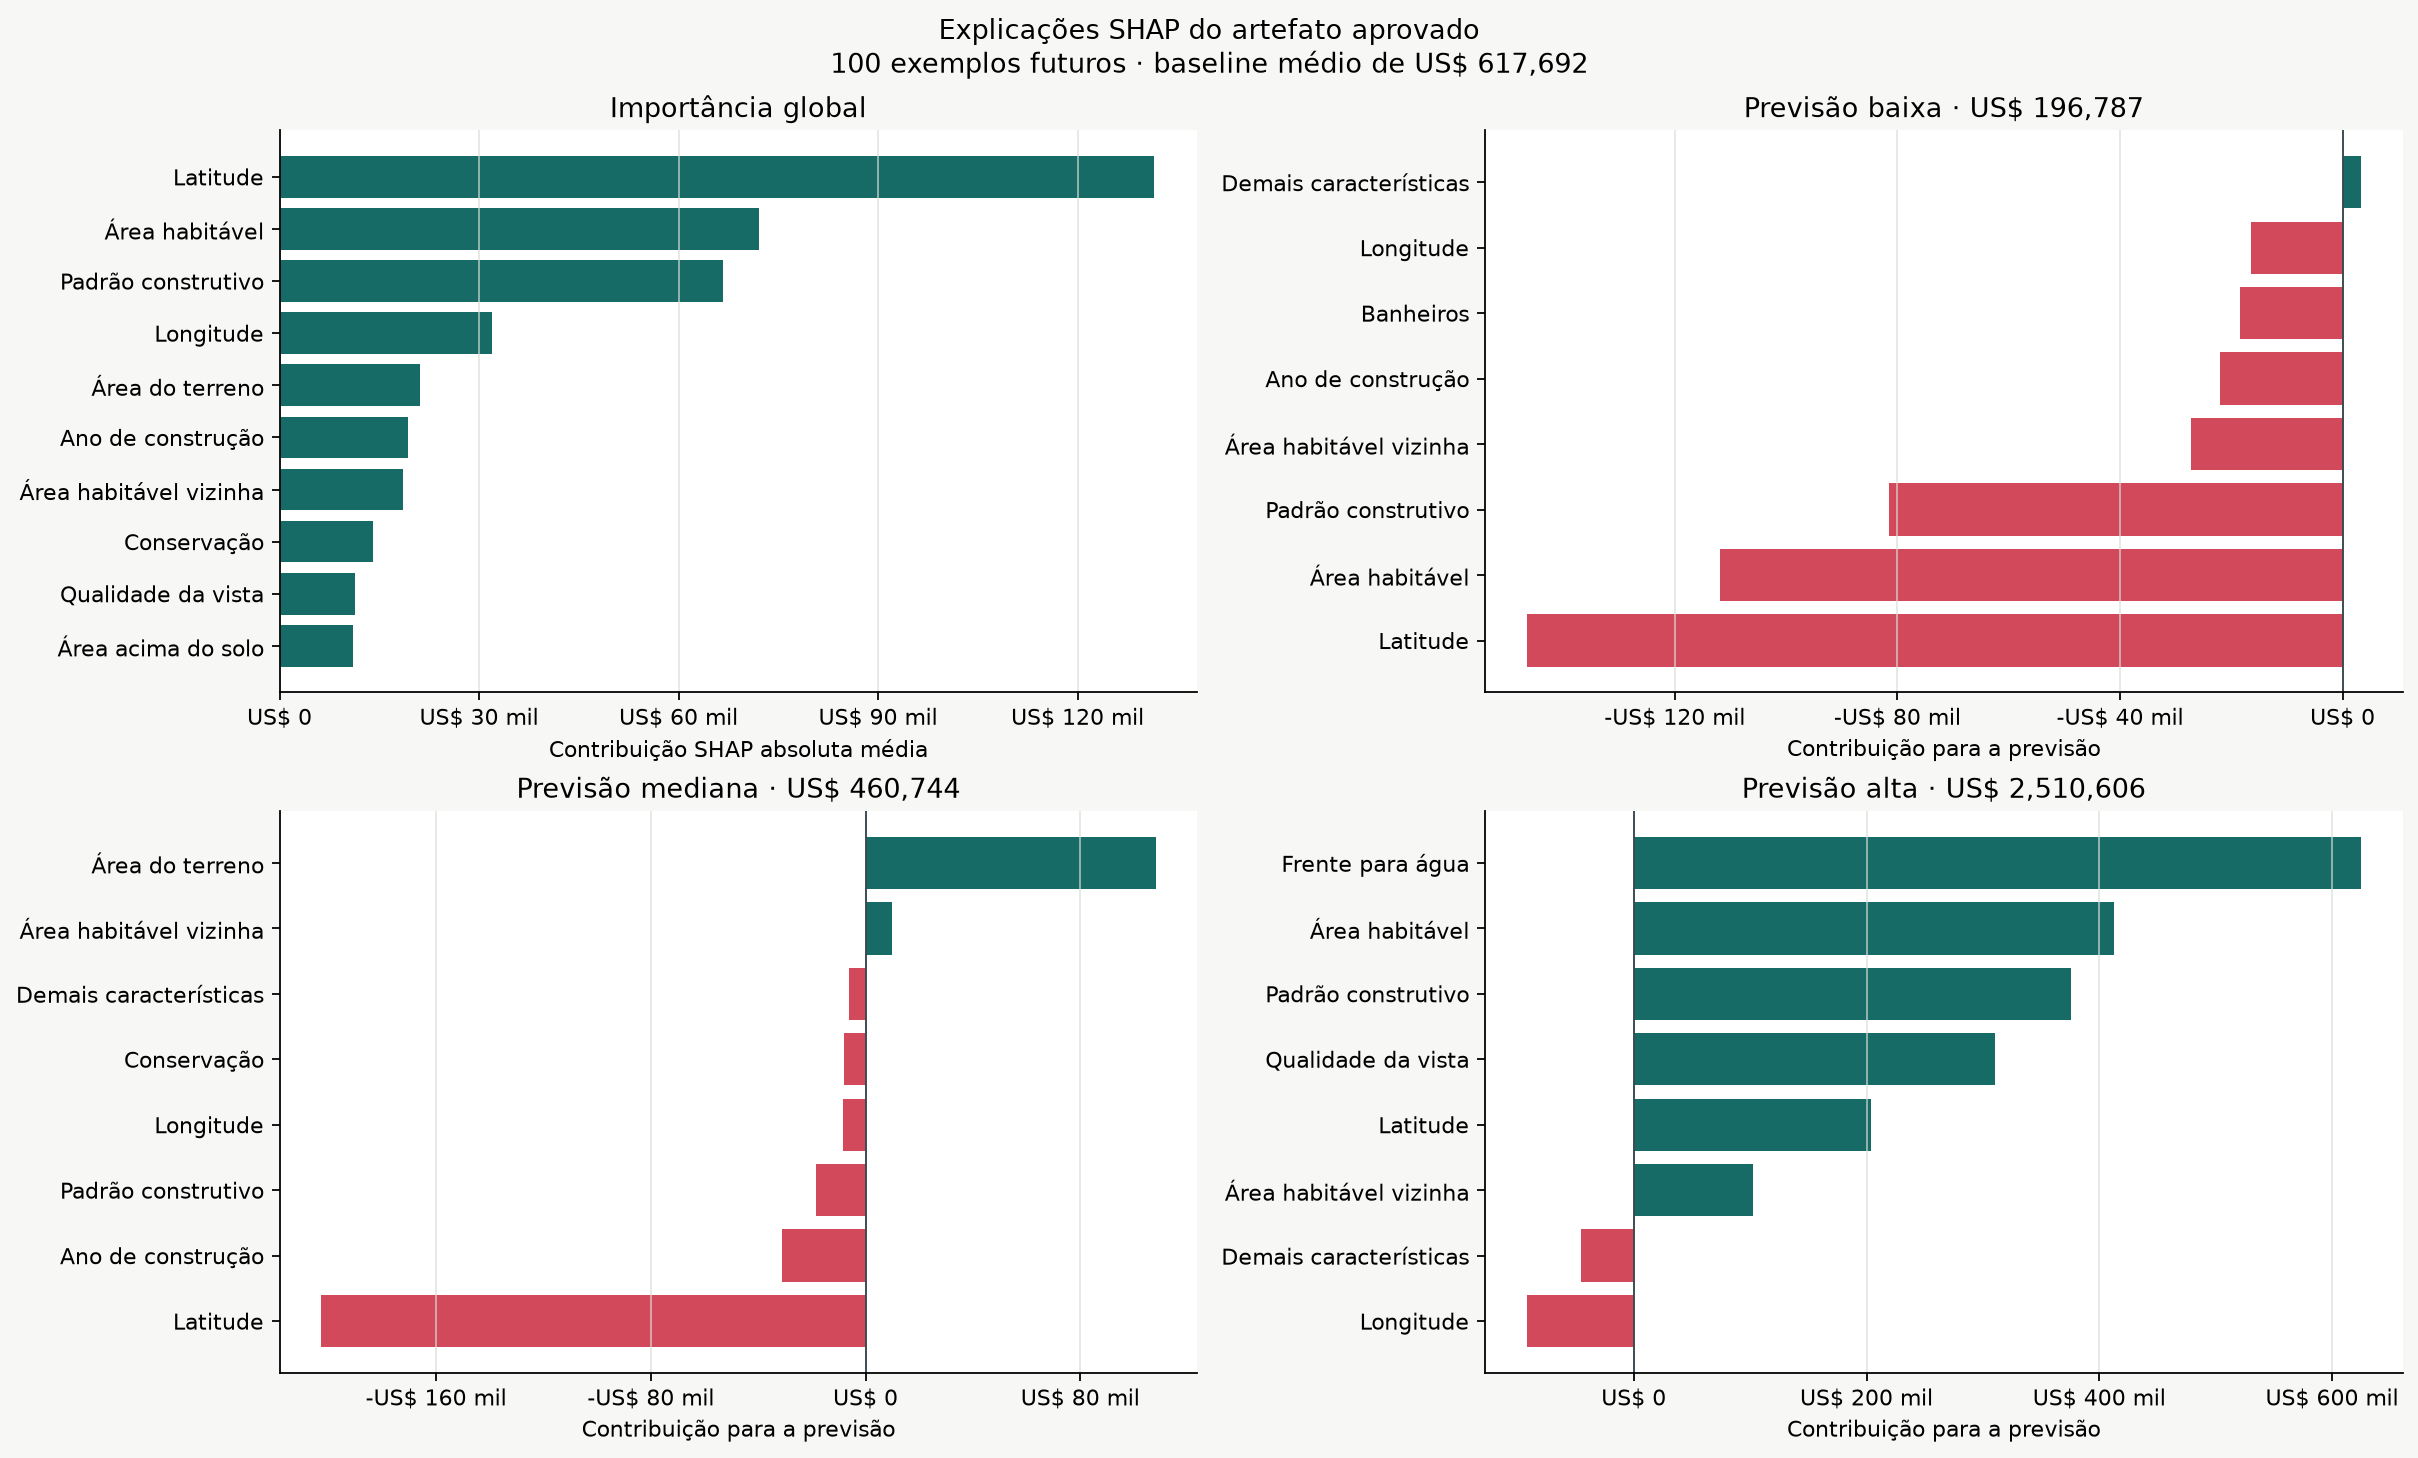
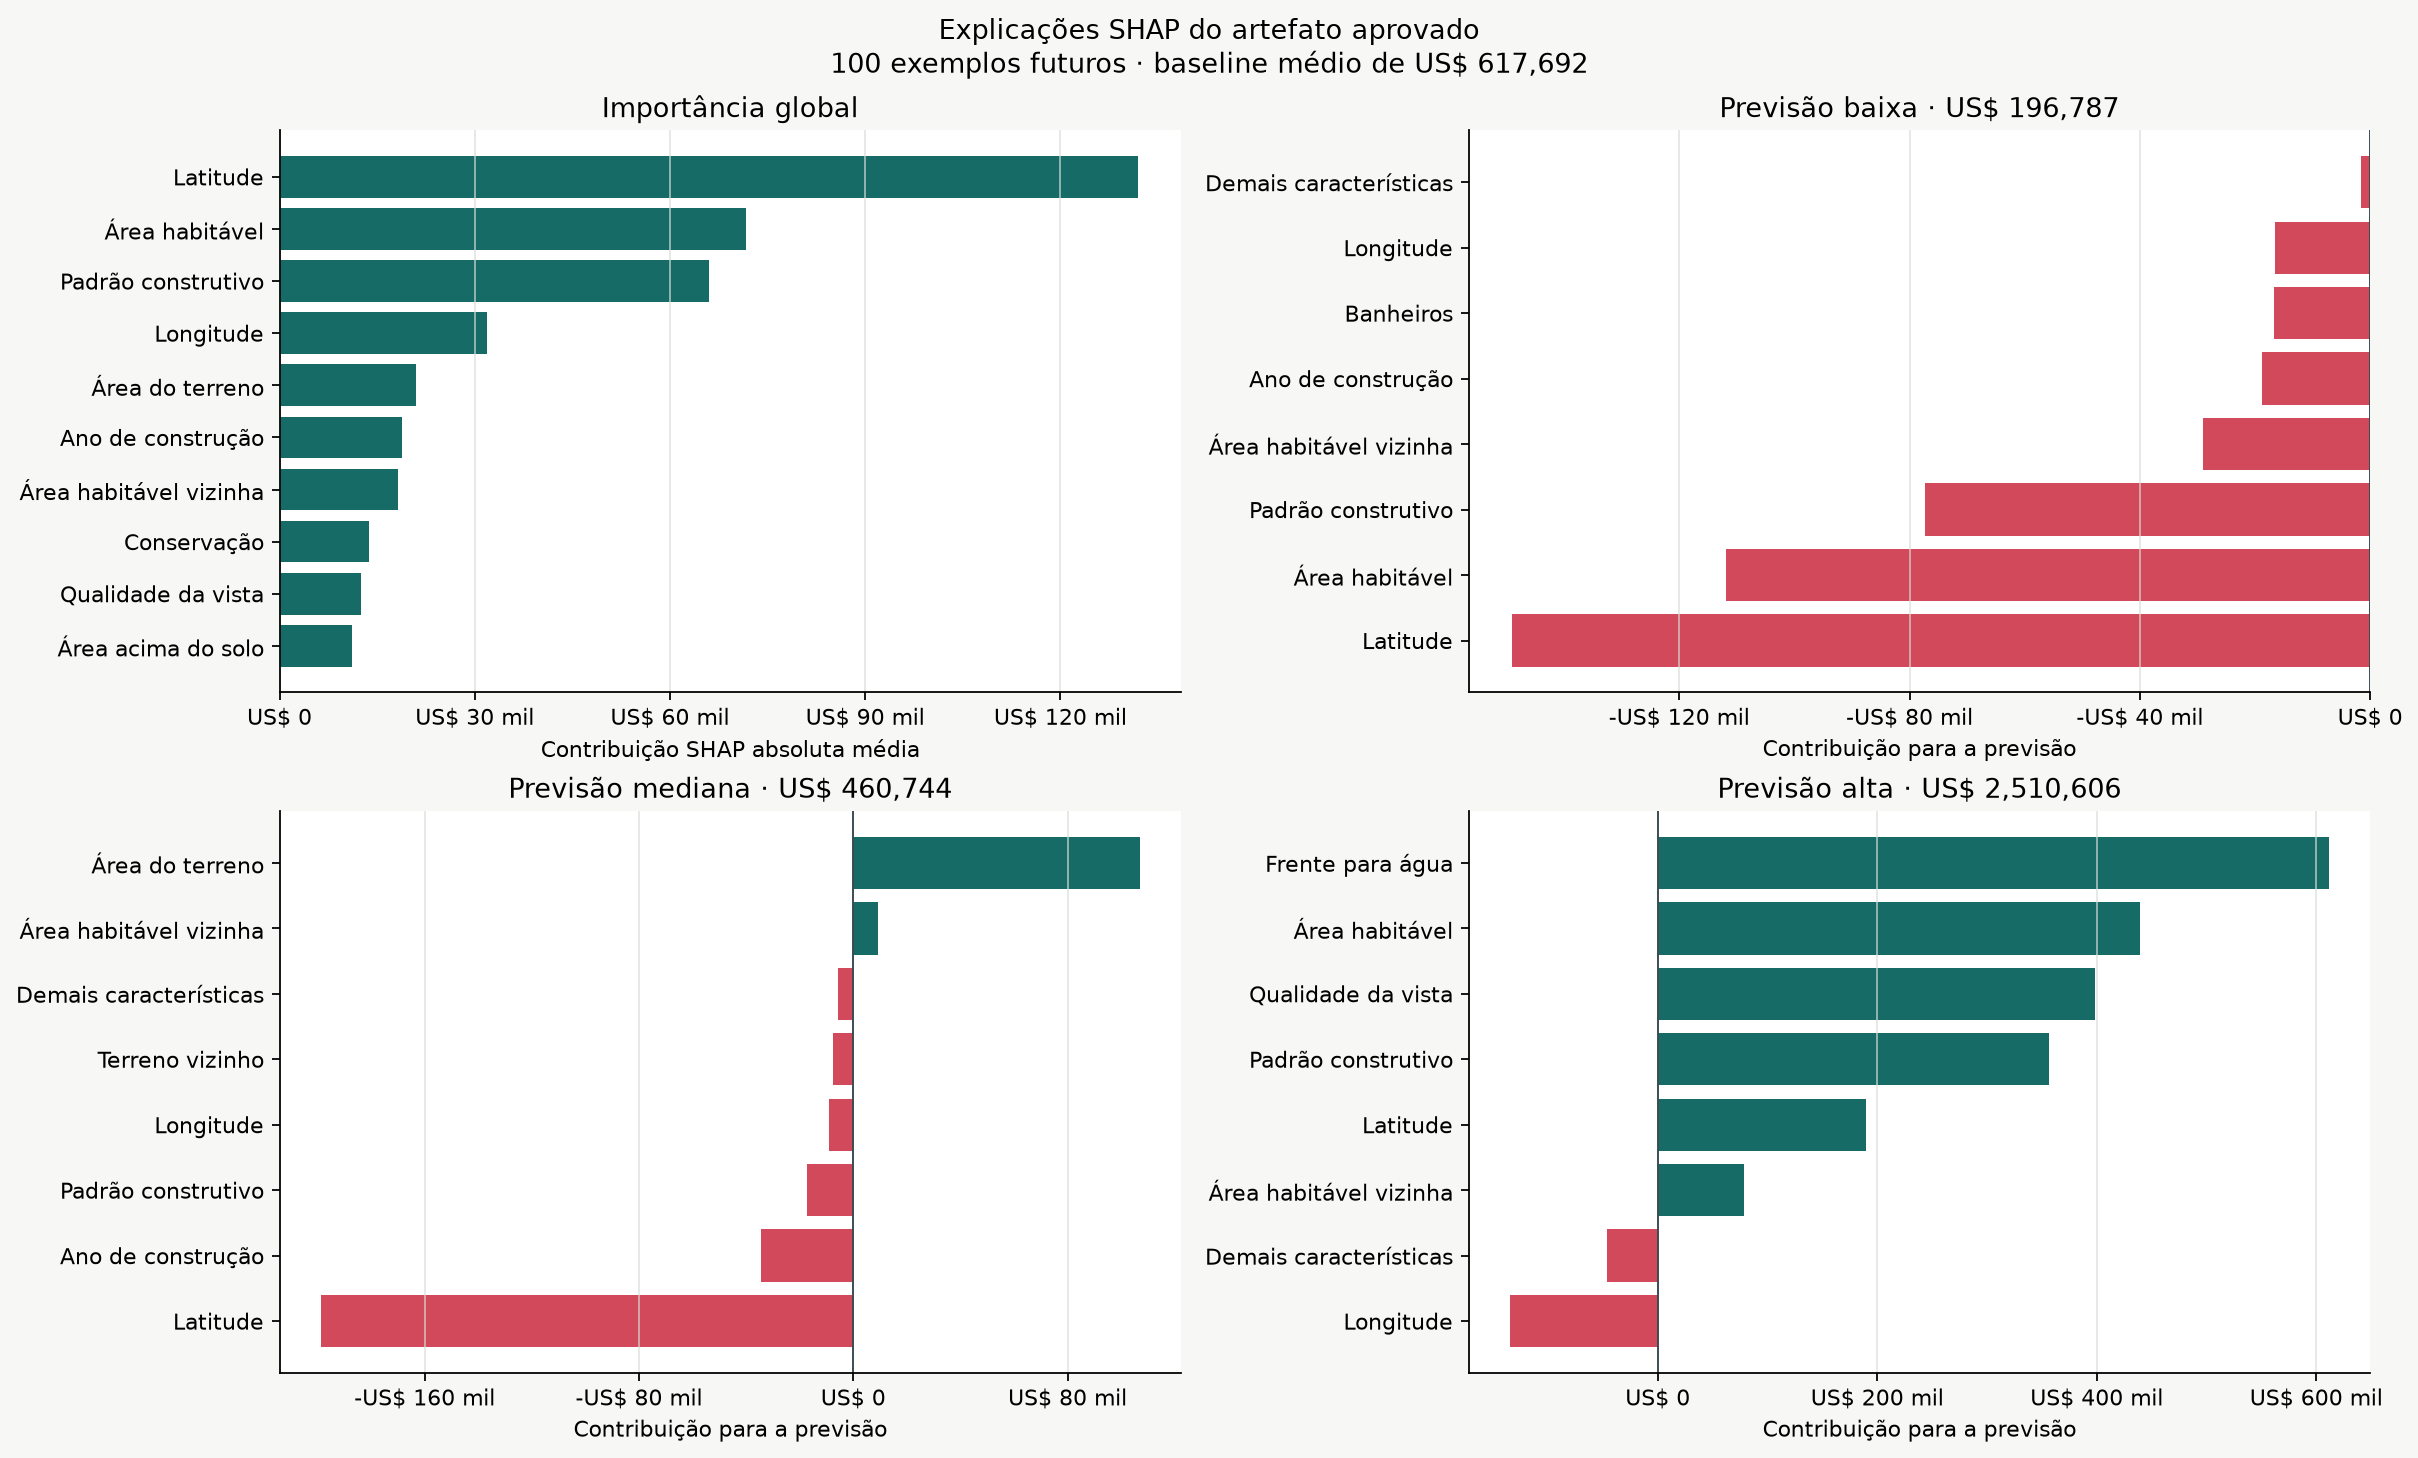
docs(explainability): refresh corrected SHAP evidence

diff --git a/reports/optional_analysis.md b/reports/optional_analysis.md
@@ -33,29 +33,32 @@ futuros possivelmente dependentes ou sujeitos a mudança de distribuição.
 
 ## Explicabilidade SHAP
 
-O `PermutationExplainer` processou as 100 linhas futuras com um baseline de 50
-linhas históricas selecionadas deterministicamente. O valor-base médio foi
-US$ 617.691,95. As maiores contribuições absolutas médias foram:
+O `PermutationExplainer` processou as 100 linhas futuras em dez ciclos de
+permutação, com um baseline de 50 linhas históricas selecionadas
+deterministicamente. O valor-base médio foi US$ 617.691,95. As maiores
+contribuições absolutas médias foram:
 
 | Característica | Contribuição absoluta média |
 | --- | ---: |
-| Latitude | US$ 131.437,72 |
-| Área habitável | US$ 72.108,70 |
-| Padrão construtivo | US$ 66.675,50 |
-| Longitude | US$ 32.020,75 |
-| Área do terreno | US$ 21.175,38 |
-| Ano de construção | US$ 19.340,56 |
+| Latitude | US$ 131.949,10 |
+| Área habitável | US$ 71.713,71 |
+| Padrão construtivo | US$ 66.026,83 |
+| Longitude | US$ 31.935,77 |
+| Área do terreno | US$ 21.042,12 |
+| Ano de construção | US$ 18.795,89 |
 
 ![Importância global e explicações locais](figures/shap_explanations.png)
 
 As explicações locais representam as previsões baixa, mediana e alta do lote:
 US$ 196.786,80, US$ 460.744,04 e US$ 2.510.606,44. A soma entre valor-base e
-contribuições reproduziu as previsões com erro máximo de `1,40e-9`.
+contribuições reproduziu as previsões com erro relativo máximo de 0,0054%, ou
+US$ 50,11, dentro da tolerância registrada de 0,01%.
 
 SHAP explica como o artefato se comportou em relação ao baseline. Não demonstra
 efeito causal, mérito do imóvel ou acurácia, pois as linhas futuras não possuem
 preço observado. Features espaciais e correlacionadas podem dividir ou
-redistribuir atribuição.
+redistribuir atribuição. As contribuições são aproximações; a dispersão entre
+permutações está registrada em `mean_permutation_std` na tabela completa.
 
 ## Rastreabilidade
 

diff --git a/docs/reviews/phase-6.md b/docs/reviews/phase-6.md
@@ -1,6 +1,6 @@
 # Revisão da Fase 6
 
-Status: pronta para revisão supervisionada.
+Status: correções da revisão implementadas; pronta para nova revisão supervisionada.
 
 ## Objetivo
 
@@ -53,12 +53,15 @@ docker compose config --quiet
 Resultados observados localmente:
 
 - Ruff: aprovado;
-- pytest: 75 testes aprovados;
+- pytest: 78 testes aprovados;
 - dependências: consistentes;
 - configuração do Docker Compose: válida;
 - regeneração integral de CSVs, JSONs e PNGs: reproduzível e sem diff;
 - figuras inspecionadas sem sobreposição de texto;
-- aditividade SHAP: erro máximo de `1,40e-9`;
+- SHAP: dez ciclos de permutação registrados;
+- aditividade SHAP: erro relativo máximo de 0,0054%, abaixo do limite de 0,01%;
+- sensibilidade entre sementes: diferença média de 1,0% a 1,3% nas atribuições
+  e seis primeiras features estáveis;
 - cobertura diagnóstica: 89,40% para nível nominal de 90%;
 - dependências de explicabilidade: ausentes do runtime de serving;
 - build da imagem não repetido nesta revisão porque o Docker Desktop estava
@@ -73,6 +76,8 @@ Resultados observados localmente:
 - a menor cobertura em Q1 e Q4 é apresentada sem suavização;
 - SHAP explica comportamento em relação ao baseline, não causalidade;
 - o baseline usa 50 linhas históricas determinísticas;
+- a análise exige ao menos três linhas para exemplos locais distintos;
+- as atribuições agregam dez ciclos e registram dispersão por feature;
 - explicabilidade não cria endpoint nem altera a resposta da API;
 - o adaptador generativo permanece excluído;
 - publicação, merge e release permanecem sob responsabilidade do autor.

diff --git a/docs/OPTIONAL_ANALYSIS_PROTOCOL.md b/docs/OPTIONAL_ANALYSIS_PROTOCOL.md
@@ -51,10 +51,10 @@ model-agnostic opera sobre as 18 features originais do pipeline físico; nenhuma
 feature demográfica é aceita.
 
 O baseline usa uma amostra determinística do histórico. As explicações globais
-agregam o valor absoluto das contribuições nas 100 linhas futuras, enquanto
-exemplos locais mostram como o valor-base e as contribuições reconciliam a
-previsão. A diferença de aditividade deve permanecer dentro da tolerância
-numérica definida nos testes.
+agregam dez ciclos de permutação nas 100 linhas futuras e registram a dispersão
+das contribuições entre permutações. Exemplos locais mostram três imóveis
+distintos, representando previsões baixa, mediana e alta. A diferença de
+aditividade deve permanecer abaixo de 0,01% da previsão em todas as linhas.
 
 SHAP descreve o comportamento do modelo em relação ao baseline escolhido. Não
 mede causalidade, mérito do imóvel nem efeito isolado de features correlacionadas.
